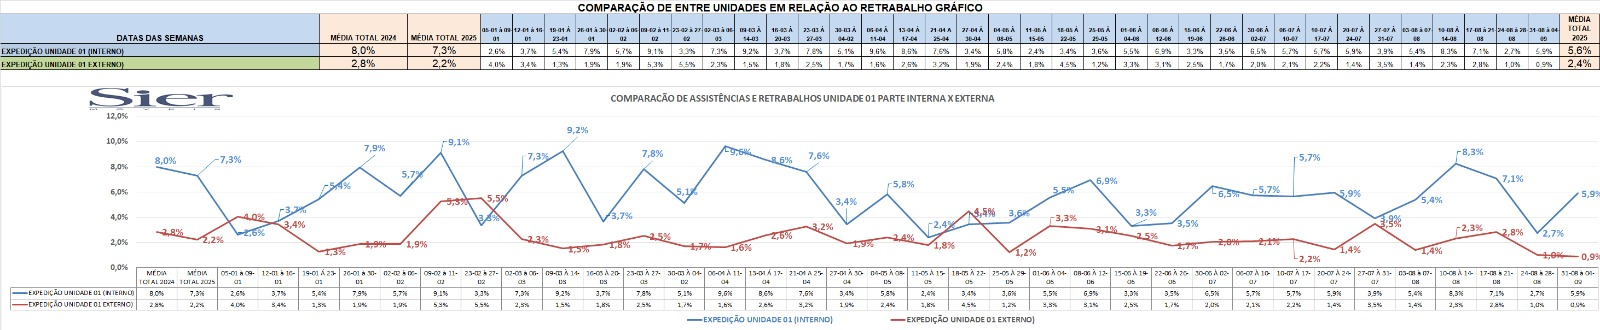
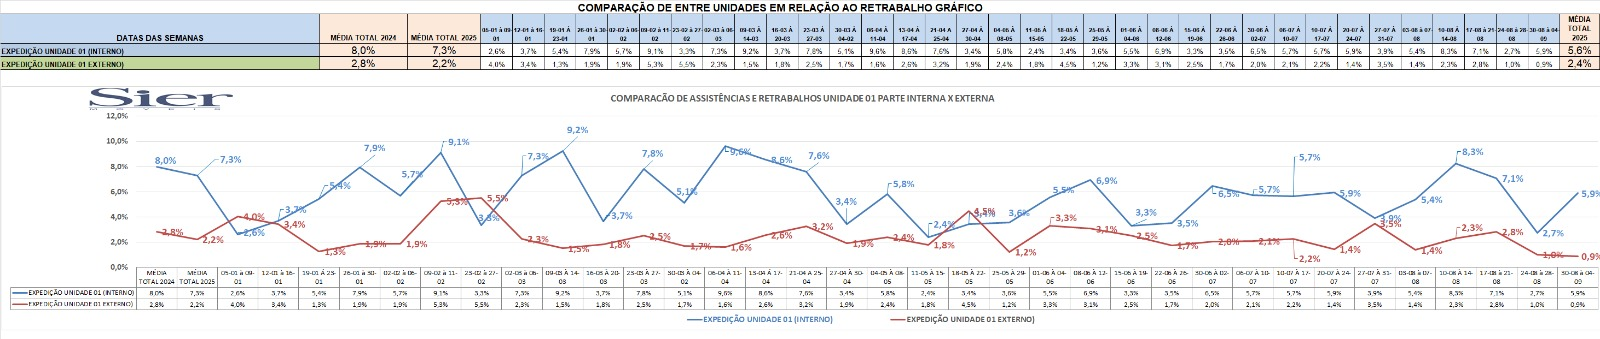
J

diff --git a/back__incial.js b/back__incial.js
@@ -1795,7 +1795,7 @@ const unidades = {
             { data: "14/08/2026", captura: ["capturas/Retrabalhos/2026/Unidade 1/Cab.Fundo/AGOSTO/14 PT01.jpeg", "capturas/Retrabalhos/2026/Unidade 1/Cab.Fundo/AGOSTO/14 PT02.jpeg", "capturas/Retrabalhos/2026/Unidade 1/Cab.Fundo/AGOSTO/14 PT03.jpeg", "capturas/Retrabalhos/2026/Unidade 1/Cab.Fundo/AGOSTO/14 PT04.jpeg", "capturas/Retrabalhos/2026/Unidade 1/Cab.Fundo/AGOSTO/14 G.jpeg"] },
             { data: "21/08/2026", captura: ["capturas/Retrabalhos/2026/Unidade 1/Cab.Fundo/AGOSTO/21 PT01.jpeg", "capturas/Retrabalhos/2026/Unidade 1/Cab.Fundo/AGOSTO/21 PT02.jpeg", "capturas/Retrabalhos/2026/Unidade 1/Cab.Fundo/AGOSTO/21 PT03.jpeg", "capturas/Retrabalhos/2026/Unidade 1/Cab.Fundo/AGOSTO/21 PT04.jpeg", "capturas/Retrabalhos/2026/Unidade 1/Cab.Fundo/AGOSTO/21 g.jpeg"] },
             { data: "28/08/2026", captura: ["capturas/Retrabalhos/2026/Unidade 1/Cab.Fundo/AGOSTO/28 PT01.jpeg", "capturas/Retrabalhos/2026/Unidade 1/Cab.Fundo/AGOSTO/28 PT02.jpeg", "capturas/Retrabalhos/2026/Unidade 1/Cab.Fundo/AGOSTO/28 PT03.jpeg", "capturas/Retrabalhos/2026/Unidade 1/Cab.Fundo/AGOSTO/28 PT04.jpeg", "capturas/Retrabalhos/2026/Unidade 1/Cab.Fundo/AGOSTO/28 g.jpeg"] },
-
+            { data: "04/09/2026", captura: ["capturas/Retrabalhos/2026/Unidade 1/Cab.Fundo/SETEMBRO/04 PT 01.jpeg", "capturas/Retrabalhos/2026/Unidade 1/Cab.Fundo/SETEMBRO/04 PT 02.jpeg", "capturas/Retrabalhos/2026/Unidade 1/Cab.Fundo/SETEMBRO/04 PT 03.jpeg", "capturas/Retrabalhos/2026/Unidade 1/Cab.Fundo/SETEMBRO/04 PT 04.jpeg", "capturas/Retrabalhos/2026/Unidade 1/Cab.Fundo/SETEMBRO/04 G.jpeg"] },
 
             // { data: "", captura: ["", "", "", "", ""] },
 
@@ -2004,7 +2004,7 @@ const unidades = {
           { data: "14/08/2026", captura: ["capturas/Retrabalhos/2026/Unidade 1/Expedição/AGOSTO/14 PT01.jpeg", "capturas/Retrabalhos/2026/Unidade 1/Expedição/AGOSTO/14 PT02.jpeg", "capturas/Retrabalhos/2026/Unidade 1/Expedição/AGOSTO/14 PT03.jpeg", "capturas/Retrabalhos/2026/Unidade 1/Expedição/AGOSTO/14 PT04.jpeg", "capturas/Retrabalhos/2026/Unidade 1/Expedição/AGOSTO/14 G.jpeg"] },
           { data: "21/08/2026", captura: ["capturas/Retrabalhos/2026/Unidade 1/Expedição/AGOSTO/21 PT01.jpeg", "capturas/Retrabalhos/2026/Unidade 1/Expedição/AGOSTO/21 PT02.jpeg", "capturas/Retrabalhos/2026/Unidade 1/Expedição/AGOSTO/21 PT03.jpeg", "capturas/Retrabalhos/2026/Unidade 1/Expedição/AGOSTO/21 PT04.jpeg", "capturas/Retrabalhos/2026/Unidade 1/Expedição/AGOSTO/21 g.jpeg"] },
           { data: "28/08/2026", captura: ["capturas/Retrabalhos/2026/Unidade 1/Expedição/AGOSTO/28 PT01.jpeg", "capturas/Retrabalhos/2026/Unidade 1/Expedição/AGOSTO/28 PT02.jpeg", "capturas/Retrabalhos/2026/Unidade 1/Expedição/AGOSTO/28 PT03.jpeg", "capturas/Retrabalhos/2026/Unidade 1/Expedição/AGOSTO/28 PT04.jpeg", "capturas/Retrabalhos/2026/Unidade 1/Expedição/AGOSTO/28 g.jpeg"] },
-
+          { data: "04/09/2026", captura: ["capturas/Retrabalhos/2026/Unidade 1/Expedição/SETEMBRO/04 PT01.jpeg", "capturas/Retrabalhos/2026/Unidade 1/Expedição/SETEMBRO/04 PT02.jpeg", "capturas/Retrabalhos/2026/Unidade 1/Expedição/SETEMBRO/04 PT03.jpeg", "capturas/Retrabalhos/2026/Unidade 1/Expedição/SETEMBRO/04 PT04.jpeg", "capturas/Retrabalhos/2026/Unidade 1/Expedição/SETEMBRO/04 G.jpeg"] },
 
 
            // { data: "", captura: ["", "", "", "", ""] },
@@ -2224,6 +2224,7 @@ const unidades = {
            { data: "14/08/2026", captura: ["capturas/Retrabalhos/2026/Unidade 1/Osso/AGOSTO/14 PT01.jpeg", "capturas/Retrabalhos/2026/Unidade 1/Osso/AGOSTO/14 PT02.jpeg", "capturas/Retrabalhos/2026/Unidade 1/Osso/AGOSTO/14 PT03.jpeg", "capturas/Retrabalhos/2026/Unidade 1/Osso/AGOSTO/14 PT04.jpeg", "capturas/Retrabalhos/2026/Unidade 1/Osso/AGOSTO/14 G.jpeg"] },
            { data: "21/08/2026", captura: ["capturas/Retrabalhos/2026/Unidade 1/Osso/AGOSTO/21 PT01.jpeg", "capturas/Retrabalhos/2026/Unidade 1/Osso/AGOSTO/21 PT02.jpeg", "capturas/Retrabalhos/2026/Unidade 1/Osso/AGOSTO/21 PT03.jpeg", "capturas/Retrabalhos/2026/Unidade 1/Osso/AGOSTO/21 PT04.jpeg", "capturas/Retrabalhos/2026/Unidade 1/Osso/AGOSTO/21g.jpeg"] },
            { data: "28/08/2026", captura: ["capturas/Retrabalhos/2026/Unidade 1/Osso/AGOSTO/28 PT01.jpeg", "capturas/Retrabalhos/2026/Unidade 1/Osso/AGOSTO/28 PT02.jpeg", "capturas/Retrabalhos/2026/Unidade 1/Osso/AGOSTO/28 PT03.jpeg", "capturas/Retrabalhos/2026/Unidade 1/Osso/AGOSTO/28 PT04.jpeg", "capturas/Retrabalhos/2026/Unidade 1/Osso/AGOSTO/28 g.jpeg"] },
+           { data: "04/09/2026", captura: ["capturas/Retrabalhos/2026/Unidade 1/Osso/SETEMBRO/04 PT1.jpeg", "capturas/Retrabalhos/2026/Unidade 1/Osso/SETEMBRO/04 PT2.jpeg", "capturas/Retrabalhos/2026/Unidade 1/Osso/SETEMBRO/04 PT3.jpeg", "capturas/Retrabalhos/2026/Unidade 1/Osso/SETEMBRO/04 PT4.jpeg", "capturas/Retrabalhos/2026/Unidade 1/Osso/SETEMBRO/04G.jpeg"] },
 
 
             // { data: "", captura: ["", "", "", "", ""] },
@@ -2442,6 +2443,7 @@ const unidades = {
            { data: "14/08/2026", captura: ["capturas/Retrabalhos/2026/Unidade 1/Usinagem/AGOSTO/14 PT01.jpeg", "capturas/Retrabalhos/2026/Unidade 1/Usinagem/AGOSTO/14 PT02.jpeg", "capturas/Retrabalhos/2026/Unidade 1/Usinagem/AGOSTO/14 PT03.jpeg", "capturas/Retrabalhos/2026/Unidade 1/Usinagem/AGOSTO/14 PT04.jpeg", "capturas/Retrabalhos/2026/Unidade 1/Usinagem/AGOSTO/14 G.jpeg"] },
            { data: "21/08/2026", captura: ["capturas/Retrabalhos/2026/Unidade 1/Usinagem/AGOSTO/21 PT01.jpeg", "capturas/Retrabalhos/2026/Unidade 1/Usinagem/AGOSTO/21 PT02.jpeg", "capturas/Retrabalhos/2026/Unidade 1/Usinagem/AGOSTO/21 PT03.jpeg", "capturas/Retrabalhos/2026/Unidade 1/Usinagem/AGOSTO/21 PT04.jpeg", "capturas/Retrabalhos/2026/Unidade 1/Usinagem/AGOSTO/21 g.jpeg"] },
            { data: "28/08/2026", captura: ["capturas/Retrabalhos/2026/Unidade 1/Usinagem/AGOSTO/28 PT01.jpeg", "capturas/Retrabalhos/2026/Unidade 1/Usinagem/AGOSTO/28 PT02.jpeg", "capturas/Retrabalhos/2026/Unidade 1/Usinagem/AGOSTO/28 PT03.jpeg", "capturas/Retrabalhos/2026/Unidade 1/Usinagem/AGOSTO/28 PT04.jpeg", "capturas/Retrabalhos/2026/Unidade 1/Usinagem/AGOSTO/28 g.jpeg"] },
+           { data: "04/09/2026", captura: ["capturas/Retrabalhos/2026/Unidade 1/Usinagem/SETEMBRO/04 PT01.jpeg", "capturas/Retrabalhos/2026/Unidade 1/Usinagem/SETEMBRO/04 PT02.jpeg", "capturas/Retrabalhos/2026/Unidade 1/Usinagem/SETEMBRO/04 PT03.jpeg", "capturas/Retrabalhos/2026/Unidade 1/Usinagem/SETEMBRO/04 PT04.jpeg", "capturas/Retrabalhos/2026/Unidade 1/Usinagem/SETEMBRO/04 G.jpeg"] },
 
 
            //{ data: "", captura: ["", "", "", "", ""] },
@@ -2671,7 +2673,7 @@ const unidades = {
             { data: "14/08/2026", captura: ["capturas/Retrabalhos/2026/Unidade 2/Curvados/AGOSTO/14 PT01.jpeg", "capturas/Retrabalhos/2026/Unidade 2/Curvados/AGOSTO/14 PT02.jpeg", "capturas/Retrabalhos/2026/Unidade 2/Curvados/AGOSTO/14 G.jpeg"] },
             { data: "21/08/2026", captura: ["capturas/Retrabalhos/2026/Unidade 2/Curvados/AGOSTO/21 PT01.jpeg", "capturas/Retrabalhos/2026/Unidade 2/Curvados/AGOSTO/21 PT02.jpeg", "capturas/Retrabalhos/2026/Unidade 2/Curvados/AGOSTO/21 g.jpeg"] },
             { data: "28/08/2026", captura: ["capturas/Retrabalhos/2026/Unidade 2/Curvados/AGOSTO/28 PT01.jpeg", "capturas/Retrabalhos/2026/Unidade 2/Curvados/AGOSTO/28 PT02.jpeg", "capturas/Retrabalhos/2026/Unidade 2/Curvados/AGOSTO/28 G.jpeg"] },
-           
+            { data: "04/09/2026", captura: ["capturas/Retrabalhos/2026/Unidade 2/Curvados/SETEMBRO/04 PT 01.jpeg", "capturas/Retrabalhos/2026/Unidade 2/Curvados/SETEMBRO/04 PT 02.jpeg", "capturas/Retrabalhos/2026/Unidade 2/Curvados/SETEMBRO/04 G.jpeg"] },
 
 
              // { data: "", captura: ["", "", ""] },
@@ -2894,7 +2896,7 @@ const unidades = {
             { data: "14/08/2026", captura: ["capturas/Retrabalhos/2026/Unidade 2/Estofaria/AGOSTO/14 PT01.jpeg", "capturas/Retrabalhos/2026/Unidade 2/Estofaria/AGOSTO/14 PT02.jpeg", "capturas/Retrabalhos/2026/Unidade 2/Estofaria/AGOSTO/14 G.jpeg"] },
             { data: "21/08/2026", captura: ["capturas/Retrabalhos/2026/Unidade 2/Estofaria/AGOSTO/21 PT01.jpeg", "capturas/Retrabalhos/2026/Unidade 2/Estofaria/AGOSTO/21 PT02.jpeg", "capturas/Retrabalhos/2026/Unidade 2/Estofaria/AGOSTO/21 g.jpeg"] },
             { data: "28/08/2026", captura: ["capturas/Retrabalhos/2026/Unidade 2/Estofaria/AGOSTO/28 PT01.jpeg", "capturas/Retrabalhos/2026/Unidade 2/Estofaria/AGOSTO/28 PT02.jpeg", "capturas/Retrabalhos/2026/Unidade 2/Estofaria/AGOSTO/28 g.jpeg"] },
-
+            { data: "04/09/2026", captura: [capturas/Retrabalhos/2026/Unidade 2/Estofaria/SETEMBRO/04 PT 01.jpeg"", "capturas/Retrabalhos/2026/Unidade 2/Estofaria/SETEMBRO/04 PT 02.jpeg", "capturas/Retrabalhos/2026/Unidade 2/Estofaria/SETEMBRO/04 G.jpeg"] },
            
             // { data: "", captura: ["", "", ""] },
 
@@ -3122,7 +3124,7 @@ const unidades = {
             { data: "14/08/2026", captura: ["capturas/Retrabalhos/2026/Unidade 2/Expedição/AGOSTO/14 PT 01.jpeg", "capturas/Retrabalhos/2026/Unidade 2/Expedição/AGOSTO/14 PT 02.jpeg", "capturas/Retrabalhos/2026/Unidade 2/Expedição/AGOSTO/14 G.jpeg"] },
             { data: "21/08/2026", captura: ["capturas/Retrabalhos/2026/Unidade 2/Expedição/AGOSTO/21 PT 01.jpeg", "capturas/Retrabalhos/2026/Unidade 2/Expedição/AGOSTO/21 PT 02.jpeg", "capturas/Retrabalhos/2026/Unidade 2/Expedição/AGOSTO/21 g.jpeg"] },
             { data: "28/08/2026", captura: ["capturas/Retrabalhos/2026/Unidade 2/Expedição/AGOSTO/28 PT 01.jpeg", "capturas/Retrabalhos/2026/Unidade 2/Expedição/AGOSTO/28 PT 02.jpeg", "capturas/Retrabalhos/2026/Unidade 2/Expedição/AGOSTO/28 g.jpeg"] },
-           
+            { data: "04/09/2026", captura: ["capturas/Retrabalhos/2026/Unidade 2/Expedição/SETEMBRO/04 PT01.jpeg", "capturas/Retrabalhos/2026/Unidade 2/Expedição/SETEMBRO/04 PT02.jpeg", "capturas/Retrabalhos/2026/Unidade 2/Expedição/SETEMBRO/04 G.jpeg"] },
 
 
             // { data: "", captura: ["", "", ""] },
@@ -3345,7 +3347,7 @@ const unidades = {
             { data: "14/08/2026", captura: ["capturas/Retrabalhos/2026/Unidade 2/Osso/AGOSTO/14 PT01.jpeg", "capturas/Retrabalhos/2026/Unidade 2/Osso/AGOSTO/14 PT02.jpeg", "capturas/Retrabalhos/2026/Unidade 2/Osso/AGOSTO/14 G.jpeg"] },
             { data: "19/08/2026", captura: ["capturas/Retrabalhos/2026/Unidade 2/Osso/AGOSTO/21 PT01.jpeg", "capturas/Retrabalhos/2026/Unidade 2/Osso/AGOSTO/21 PT02.jpeg", "capturas/Retrabalhos/2026/Unidade 2/Osso/AGOSTO/21 g.jpeg"] },
             { data: "28/08/2026", captura: ["capturas/Retrabalhos/2026/Unidade 2/Osso/AGOSTO/28 PT01.jpeg", "capturas/Retrabalhos/2026/Unidade 2/Osso/AGOSTO/28 PT02.jpeg", "capturas/Retrabalhos/2026/Unidade 2/Osso/AGOSTO/28 G.jpeg"] },
-
+            { data: "04/09/2026", captura: ["capturas/Retrabalhos/2026/Unidade 2/Osso/SETEMBRO/04 PT01.jpeg", "capturas/Retrabalhos/2026/Unidade 2/Osso/SETEMBRO/04 PT02.jpeg", "capturas/Retrabalhos/2026/Unidade 2/Osso/SETEMBRO/04 G.jpeg"] },
 
              // { data: "", captura: ["", "", ""] },
         ],
@@ -3359,6 +3361,8 @@ const unidades = {
         
         Restauração: [
         { data: "28/08/2026", captura: ["capturas/Retrabalhos/2026/Unidade 2/Restauração/28 pt1.jpeg", "capturas/Retrabalhos/2026/Unidade 2/Restauração/28 pt2.jpeg", "capturas/Retrabalhos/2026/Unidade 2/Restauração/28g.jpeg"] },
+        { data: "04/09/2026", captura: ["capturas/Retrabalhos/2026/Unidade 2/Restauração/28 pt1.jpeg", "capturas/Retrabalhos/2026/Unidade 2/Restauração/28 pt2.jpeg", "capturas/Retrabalhos/2026/Unidade 2/Restauração/28g.jpeg"] },
+
 
             //    { data: "", captura: ["", "", ""] },
             
@@ -3376,7 +3380,7 @@ const unidades = {
        { data: "14/08/2026", captura: ["capturas/Retrabalhos/2026/Unidade 2/Inspeção de Qualidade/08- AGOSTO/14 PT1.jpeg", "capturas/Retrabalhos/2026/Unidade 2/Inspeção de Qualidade/08- AGOSTO/14 PT2.jpeg", "capturas/Retrabalhos/2026/Unidade 2/Inspeção de Qualidade/08- AGOSTO/14 G.jpeg"] },
        { data: "21/08/2026", captura: ["capturas/Retrabalhos/2026/Unidade 2/Inspeção de Qualidade/08- AGOSTO/21 PT1.jpeg", "capturas/Retrabalhos/2026/Unidade 2/Inspeção de Qualidade/08- AGOSTO/21 PT2.jpeg", "capturas/Retrabalhos/2026/Unidade 2/Inspeção de Qualidade/08- AGOSTO/21 g.jpeg"] },
        { data: "28/08/2026", captura: ["capturas/Retrabalhos/2026/Unidade 2/Inspeção de Qualidade/08- AGOSTO/28 PT1.jpeg", "capturas/Retrabalhos/2026/Unidade 2/Inspeção de Qualidade/08- AGOSTO/28 PT2.jpeg", "capturas/Retrabalhos/2026/Unidade 2/Inspeção de Qualidade/08- AGOSTO/28 g.jpeg"] },
-
+       { data: "04/09/2026", captura: ["capturas/Retrabalhos/2026/Unidade 2/Inspeção de Qualidade/09 SETEMBRO/04 PT 01.jpeg", "capturas/Retrabalhos/2026/Unidade 2/Inspeção de Qualidade/09 SETEMBRO/04 PT 02.jpeg", "capturas/Retrabalhos/2026/Unidade 2/Inspeção de Qualidade/09 SETEMBRO/04 G.jpeg"] },
         
        // { data: "", captura: ["", "", ""] },
 
@@ -3597,6 +3601,7 @@ const unidades = {
            { data: "14/08/2026", captura: ["capturas/Retrabalhos/2026/Unidade 2/Usinagem/AGOSTO/14 PT01.jpeg", "capturas/Retrabalhos/2026/Unidade 2/Usinagem/AGOSTO/14 PT02.jpeg", "capturas/Retrabalhos/2026/Unidade 2/Usinagem/AGOSTO/14 PT03.jpeg", "capturas/Retrabalhos/2026/Unidade 2/Usinagem/AGOSTO/14 PT04.jpeg", "capturas/Retrabalhos/2026/Unidade 2/Usinagem/AGOSTO/14 G.jpeg"] },
            { data: "21/08/2026", captura: ["capturas/Retrabalhos/2026/Unidade 2/Usinagem/AGOSTO/21 PT01.jpeg", "capturas/Retrabalhos/2026/Unidade 2/Usinagem/AGOSTO/21 PT02.jpeg", "capturas/Retrabalhos/2026/Unidade 2/Usinagem/AGOSTO/21 PT03.jpeg", "capturas/Retrabalhos/2026/Unidade 2/Usinagem/AGOSTO/21 PT04.jpeg", "capturas/Retrabalhos/2026/Unidade 2/Usinagem/AGOSTO/21 g.jpeg"] },
            { data: "28/08/2026", captura: ["capturas/Retrabalhos/2026/Unidade 2/Usinagem/AGOSTO/28 PT01.jpeg", "capturas/Retrabalhos/2026/Unidade 2/Usinagem/AGOSTO/28 PT02.jpeg", "capturas/Retrabalhos/2026/Unidade 2/Usinagem/AGOSTO/28 PT03.jpeg", "capturas/Retrabalhos/2026/Unidade 2/Usinagem/AGOSTO/28 PT04.jpeg", "capturas/Retrabalhos/2026/Unidade 2/Usinagem/AGOSTO/28 G.jpeg"] },
+           { data: "04/09/2026", captura: ["capturas/Retrabalhos/2026/Unidade 2/Usinagem/SETEMBRO/04 PT01.jpeg", "capturas/Retrabalhos/2026/Unidade 2/Usinagem/SETEMBRO/04 PT02.jpeg", "capturas/Retrabalhos/2026/Unidade 2/Usinagem/SETEMBRO/04 PT03.jpeg", "capturas/Retrabalhos/2026/Unidade 2/Usinagem/SETEMBRO/04 PT04.jpeg", "capturas/Retrabalhos/2026/Unidade 2/Usinagem/SETEMBRO/04 G.jpeg"] },
 
 
             // { data: "", captura: ["", "", "", "", ""] },
@@ -3810,7 +3815,7 @@ const unidades = {
            { data: "14/08/2026", captura: ["capturas/Retrabalhos/2026/Unidade 3/AGOSTO/14 PT01.jpeg", "capturas/Retrabalhos/2026/Unidade 3/AGOSTO/14 PT02.jpeg", "capturas/Retrabalhos/2026/Unidade 3/AGOSTO/14 PT03.jpeg", "capturas/Retrabalhos/2026/Unidade 3/AGOSTO/14 PT04.jpeg", "capturas/Retrabalhos/2026/Unidade 3/AGOSTO/14 G.jpeg"] },
            { data: "21/08/2026", captura: ["capturas/Retrabalhos/2026/Unidade 3/AGOSTO/21 PT01.jpeg", "capturas/Retrabalhos/2026/Unidade 3/AGOSTO/21 PT02.jpeg", "capturas/Retrabalhos/2026/Unidade 3/AGOSTO/21 PT03.jpeg", "capturas/Retrabalhos/2026/Unidade 3/AGOSTO/21 PT04.jpeg", "capturas/Retrabalhos/2026/Unidade 3/AGOSTO/21 g.jpeg"] },
            { data: "28/08/2026", captura: ["capturas/Retrabalhos/2026/Unidade 3/AGOSTO/28 PT01.jpeg", "capturas/Retrabalhos/2026/Unidade 3/AGOSTO/28 PT02.jpeg", "capturas/Retrabalhos/2026/Unidade 3/AGOSTO/28 PT03.jpeg", "capturas/Retrabalhos/2026/Unidade 3/AGOSTO/28 PT04.jpeg", "capturas/Retrabalhos/2026/Unidade 3/AGOSTO/28 g.jpeg"] },
-
+           { data: "04/09/2026", captura: ["capturas/Retrabalhos/2026/Unidade 3/SETEMBRO/04 PT01.jpeg", "capturas/Retrabalhos/2026/Unidade 3/SETEMBRO/04 PT02.jpeg", "capturas/Retrabalhos/2026/Unidade 3/SETEMBRO/04 PT03.jpeg", "capturas/Retrabalhos/2026/Unidade 3/SETEMBRO/04 PT04.jpeg", "capturas/Retrabalhos/2026/Unidade 3/SETEMBRO/4G.jpeg"] },
 
            // { data: "", captura: ["", "", "", "", ""] },
 
@@ -4024,6 +4029,7 @@ const unidades = {
            { data: "14/08/2026", captura: ["capturas/Retrabalhos/2026/Unidade 4/AGOSTO/14 g.jpeg", "capturas/Retrabalhos/2026/Unidade 4/AGOSTO/14 PT02.jpeg", "capturas/Retrabalhos/2026/Unidade 4/AGOSTO/14 g.jpeg"] },
            { data: "21/08/2026", captura: ["capturas/Retrabalhos/2026/Unidade 4/AGOSTO/21 PT01.jpeg", "capturas/Retrabalhos/2026/Unidade 4/AGOSTO/21 PT02.jpeg", "capturas/Retrabalhos/2026/Unidade 4/AGOSTO/21 g.jpeg"] },
            { data: "28/08/2026", captura: ["capturas/Retrabalhos/2026/Unidade 4/AGOSTO/28 PT01.jpeg", "capturas/Retrabalhos/2026/Unidade 4/AGOSTO/28 PT02.jpeg", "capturas/Retrabalhos/2026/Unidade 4/AGOSTO/28 g.jpeg"] },
+           { data: "04/09/2026", captura: ["capturas/Retrabalhos/2026/Unidade 4/SETEMBRO/04 PT 01.jpeg", "capturas/Retrabalhos/2026/Unidade 4/SETEMBRO/04 PT 02.jpeg", "capturas/Retrabalhos/2026/Unidade 4/SETEMBRO/04 G.jpeg"] },
 
 
             // { data: "", captura: ["", "", ""] },
